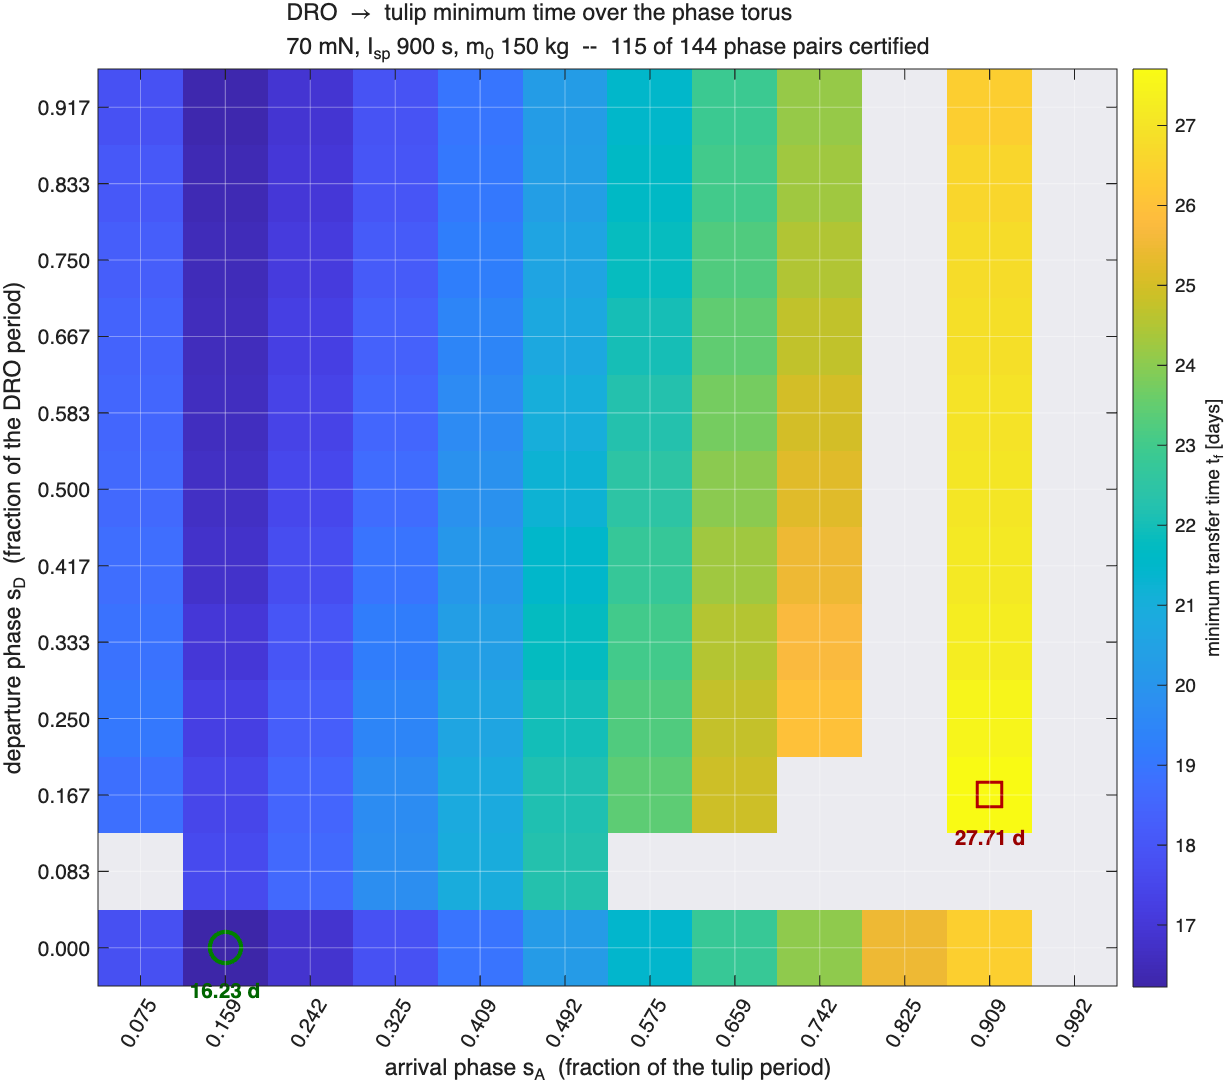
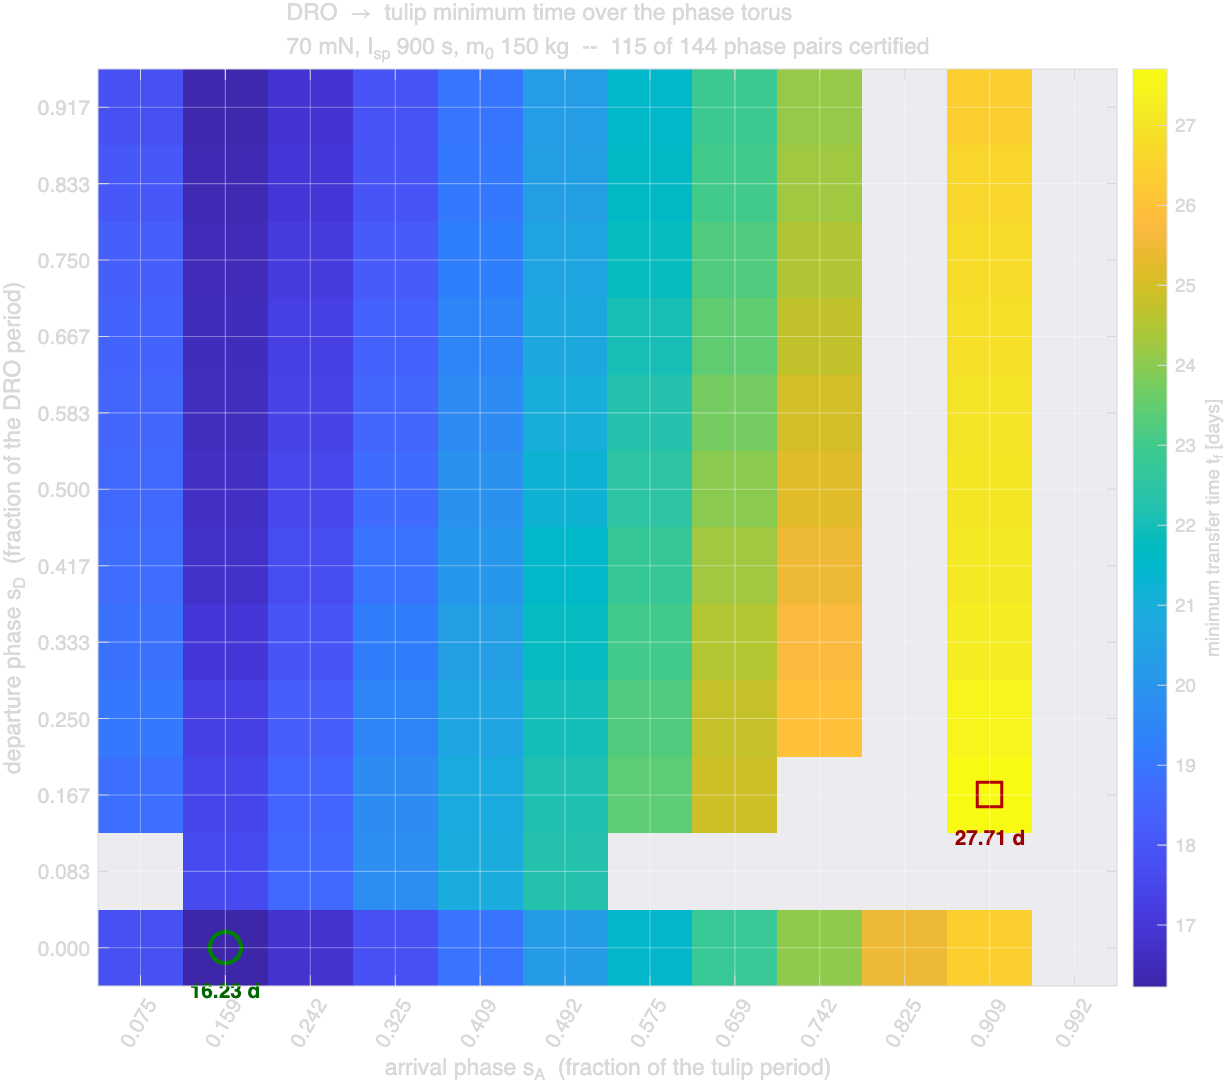
Second-order sweep final: 44 interior candidates all near-miss, 0 zero, every lift certified; torus figures regenerated; records closed
Claude-Session: https://claude.ai/code/session_011ZPzBzK4zhCmodYQMyMgc6

diff --git a/orbit_transfer/STATUS_AND_ROADMAP.md b/orbit_transfer/STATUS_AND_ROADMAP.md
@@ -90,7 +90,7 @@ sheets by `sD_frac x sA_frac`, so this is a new catalog, not a new format.
 | **front doors** | **`run_dro_tulip(sD, sA)`** -- one call, one certified transfer, library route or continuation walk; **`build_70mN_library.m`** -- the WHOLE chain (anchors, arcs, sheet, ribs, package, audit, sweep, pictures, deliverable) as one script with stage switches; **`transfer_study.m`** -- one transfer with the scaffolding exposed, necessary + sufficiency checks one at a time. The two scripts are now the STANDARD for every costate library (principle 8, 2026-09-10) |
 | **why continuation** | the fixed-step sweep of 2026-09-08 stalled and was judged the wrong method under review (FINDINGS 36); the arcs walk through folds instead of stepping over them |
 | **the discriminator** | **the CONJUGATE TEST does the separating** -- first assembled sheet: 14 candidates, 2 certified, 12 refuted by the conjugate test ALONE after passing residual, flown arrival and `tfMin` witness (FINDINGS 38). See 4.4. |
-| **status (2026-09-10)** | **115 entries PACKAGED and AUDITED 115/115 clean** (115 of 144 cells, 11 of 12 arrival phases; column 0.9921 has no certified seed, 0.8254 stalls in departure). Second script review applied: H6 now ENFORCED in the gate stack, pointwise Pontryagin checks (exact minimum-principle gap of the APPLIED control) gate every flight, one shared flight validator. Second-order sweep (spectrum / H6 / lift) in progress; its multiplicity flags located -- four endpoint collapse, one interior near-miss on (2,4) that plateaus under refinement (FINDINGS 41) |
+| **status (2026-09-10)** | **115 entries PACKAGED and AUDITED 115/115 clean** (115 of 144 cells, 11 of 12 arrival phases; column 0.9921 has no certified seed, 0.8254 stalls in departure). Second script review applied: H6 now ENFORCED in the gate stack, pointwise Pontryagin checks (exact minimum-principle gap of the APPLIED control) gate every flight, one shared flight validator. Second-order sweep COMPLETE and written back (2026-09-11): 0 interior sign changes, every lift certified (worst 28x, tight pair), worst H6 4.5x; 44 interior near-degeneracies form a RIDGE across arrival columns 4-7, every one a near-miss under two-level refinement, 0 zeros (FINDINGS 42) |
 | **audit** | `audit_phase_catalog` re-derives every entry from the catalog's OWN KEYS and flies it -- worst arrival 0.29 km / 0.006 m/s, worst witness disagreement 6.0e-08, stored t_f vs z8(8) 8.9e-16 |
 | **the ship rule** | a deliverable does not ship until its audit is clean; `build_dro_deliverable` ENFORCES it (`doc/CERTIFICATION_DISCIPLINE.md`) |
 | **record** | FINDINGS 37 (machinery), 38 (the conjugate result), 39 (the departure conjugate point), **40 (the two outside reviews, the four proof repairs, H6)**, 41 (second script review: N6 tautology, H6 enforcement, the sweep's multiplicity flags) |

diff --git a/orbit_transfer/DRO_tulip/TODO.md b/orbit_transfer/DRO_tulip/TODO.md
@@ -5,7 +5,9 @@
   sign changes are candidates, interior ones refined 4x (zero vs near-miss),
   lift pair tightened to [1e-12 1e-9] after seven false "uncertified"
   verdicts, H6 clearance vs Hamiltonian residual, hMax rename, lift input
-  checks. Corrected re-sweep running; confirm census + writeback + torus.
+  checks. Corrected re-sweep DONE 2026-09-11: 115/115, 44 interior
+  candidates all near-miss (the ridge, FINDINGS 42), 0 zero, every lift
+  certified (worst 28x), torus redrawn.
 - [ ] **`build_70mN_library.m` full-chain rerun** — dry-run verified on the
   reuse path only; run with `run.sheet`/`run.package`/`run.audit` on to prove
   the live path reproduces 115 entries before the next ship.

diff --git a/orbit_transfer/DRO_tulip/FINDINGS.md b/orbit_transfer/DRO_tulip/FINDINGS.md
@@ -2803,3 +2803,10 @@ refines TWICE (4x, then 16x) and calls a candidate a zero only when both
 levels fall, or a sign change is present, or the minimum reaches 1e-8 of
 the median. The 42 entries were re-measured under that rule; the
 writeback below is the final one.
+
+**Final writeback (2026-09-11):** the 42 entries re-measured under the
+two-level rule -- **44 interior candidates, 44 near-miss, 0 zero**; worst
+lift 28x, worst H6 4.54x, 0 interior sign changes. The catalog's
+second-order fields (`conj_interior`, `conj_interior_cand`,
+`conj_near_miss`, `conj_zero`, `h6_margin`, `lift_margin`) are the ones a
+recipient should read; `phase_torus_findings.png` is redrawn from them.
